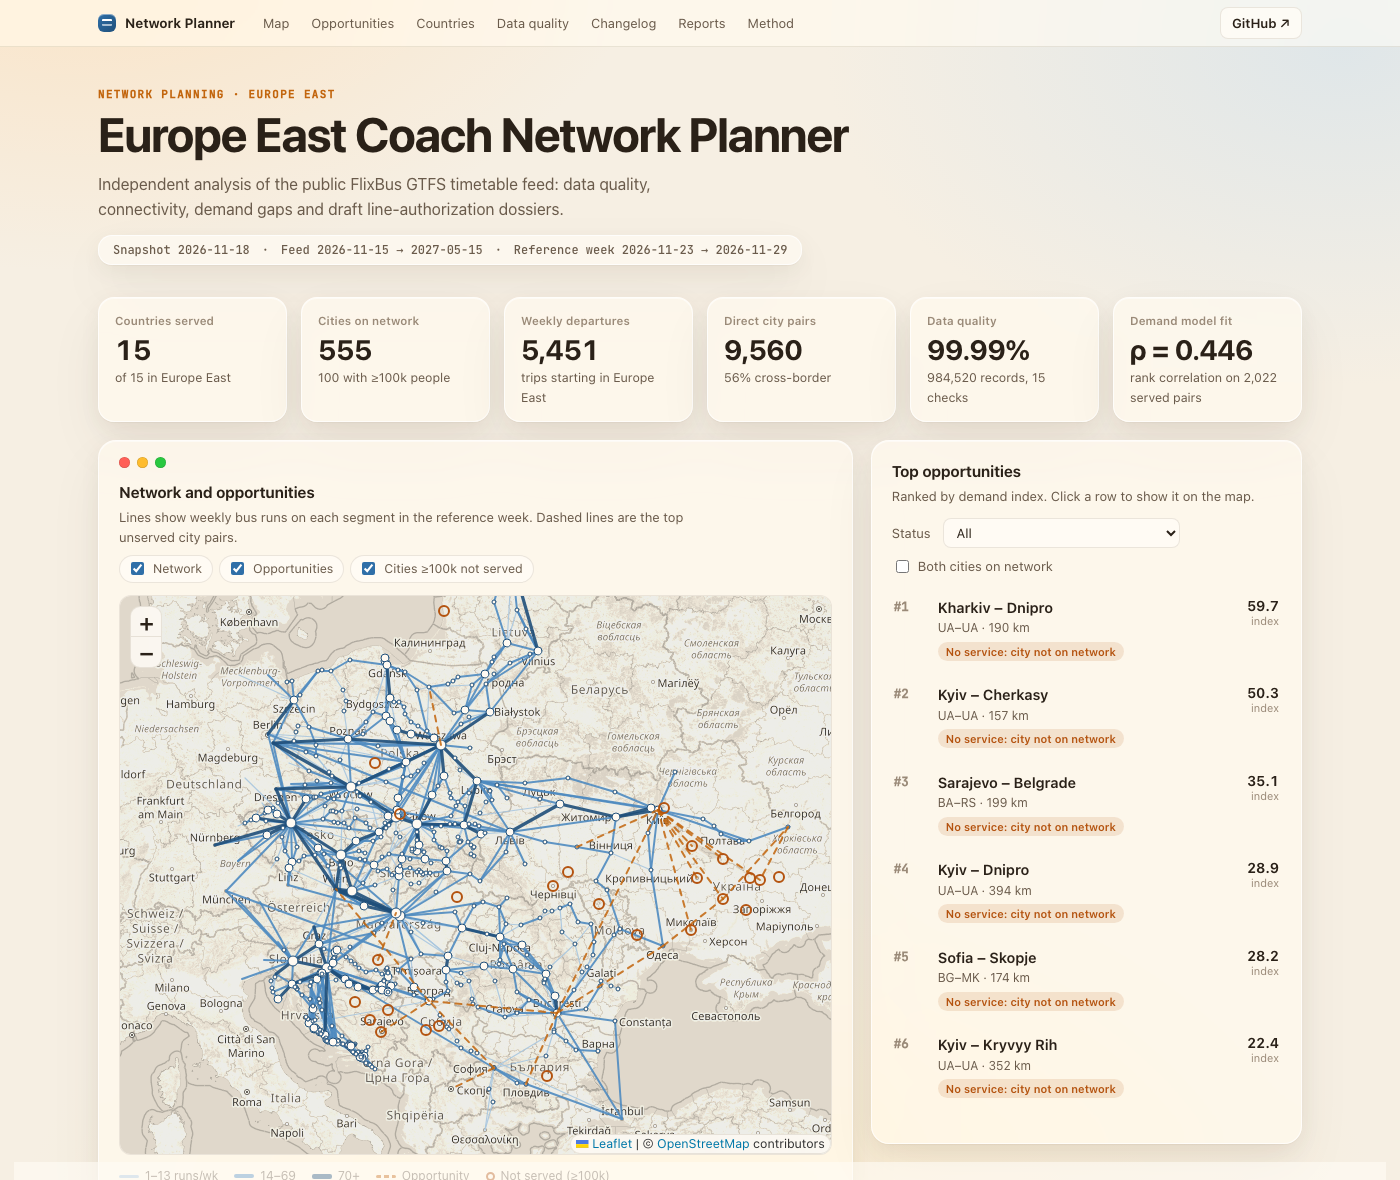
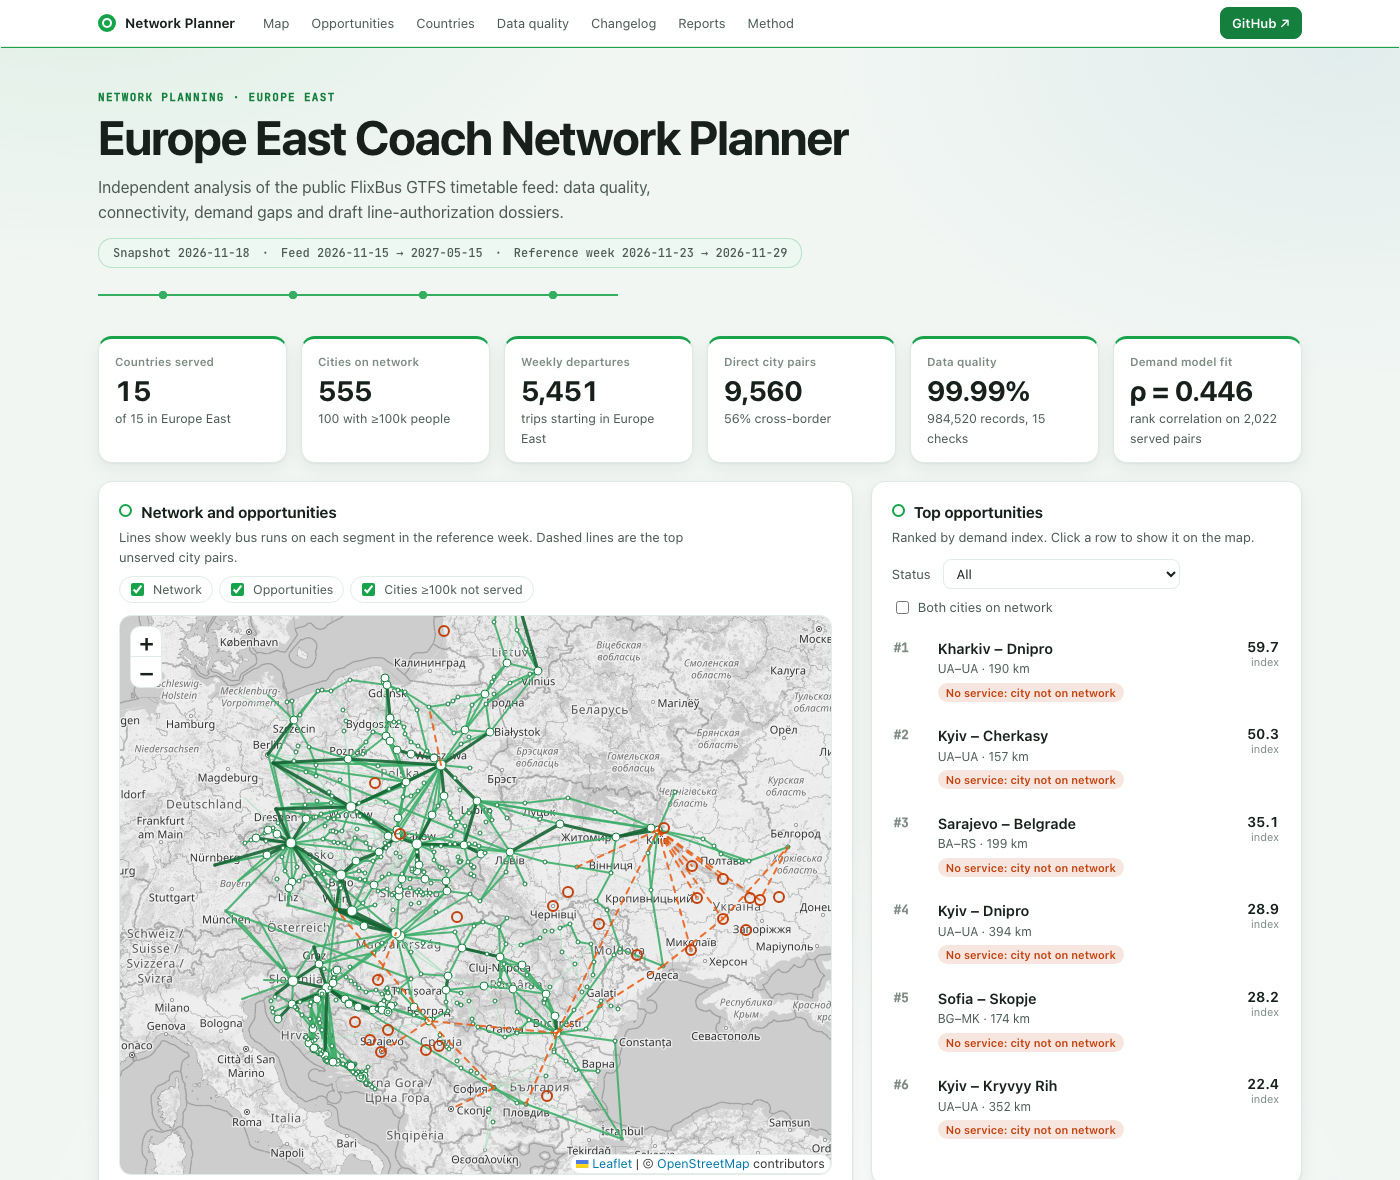
Apply green mobility theme: white cards, mint field, green route-line accents

Changed region(s): [[0.0, 0.0, 0.9521, 1.0], [0.8907, 0.4881, 0.9214, 0.7017], [0.86, 0.0, 0.9521, 0.061]]

diff --git a/site/theme-green.css b/site/theme-green.css
@@ -1,0 +1,78 @@
+/* Green mobility theme. Layered on style.css: redefines the tokens and swaps glass panels for crisp
+   white cards on a pale mint field. Fresh green (#16a34a family) is the accent; type is deep charcoal.
+   A thin "route line" motif (dashed green stroke with stop dots) marks the hero and card headers. */
+:root {
+  --bg: #f1f6f3;
+  --bloom-1: rgba(22, 163, 74, .10); --bloom-2: rgba(255, 255, 255, .9); --bloom-3: rgba(14, 116, 144, .07);
+  --glass: #ffffff; --glass-strong: #ffffff;
+  --edge: #dfe9e3; --hair: #e3ece6;
+  --shadow: 0 1px 2px rgba(16, 40, 28, .05), 0 6px 18px rgba(16, 40, 28, .06);
+  --surface: #ffffff; --ink: #17201b; --ink-2: #4b5a52; --muted: #7d8b83; --line: #e8efea;
+  --brand: #15803d; --brand-2: #16a34a; --accent: #ea580c;
+  --l1: #b7e1c6; --l2: #3fae6a; --l3: #166534; --uns: #c2410c;
+  --good: #15803d; --warn: #b45309; --bad: #b91c1c;
+  --map-filter: grayscale(1) brightness(1.06) contrast(.88);
+}
+@media (prefers-color-scheme: dark) { :root:not([data-theme="light"]) {
+  --bg: #0f1512;
+  --bloom-1: rgba(34, 197, 94, .10); --bloom-2: rgba(15, 21, 18, 1); --bloom-3: rgba(14, 116, 144, .08);
+  --glass: #161e1a; --glass-strong: #1b241f;
+  --edge: #24302a; --hair: #26322c;
+  --shadow: 0 1px 2px rgba(0, 0, 0, .3), 0 8px 22px rgba(0, 0, 0, .3);
+  --surface: #161e1a; --ink: #e9f1ec; --ink-2: #b4c2ba; --muted: #84948b; --line: #222c27;
+  --brand: #4ade80; --brand-2: #86efac; --accent: #fb923c;
+  --l1: #2f5b40; --l2: #4fbf7a; --l3: #a7f0c2; --uns: #fdba74;
+  --good: #4ade80; --warn: #fbbf24; --bad: #f87171;
+  --map-filter: grayscale(1) invert(1) brightness(.72) contrast(.92);
+  color-scheme: dark; } }
+:root[data-theme="dark"] {
+  --bg: #0f1512;
+  --bloom-1: rgba(34, 197, 94, .10); --bloom-2: rgba(15, 21, 18, 1); --bloom-3: rgba(14, 116, 144, .08);
+  --glass: #161e1a; --glass-strong: #1b241f;
+  --edge: #24302a; --hair: #26322c;
+  --shadow: 0 1px 2px rgba(0, 0, 0, .3), 0 8px 22px rgba(0, 0, 0, .3);
+  --surface: #161e1a; --ink: #e9f1ec; --ink-2: #b4c2ba; --muted: #84948b; --line: #222c27;
+  --brand: #4ade80; --brand-2: #86efac; --accent: #fb923c;
+  --l1: #2f5b40; --l2: #4fbf7a; --l3: #a7f0c2; --uns: #fdba74;
+  --good: #4ade80; --warn: #fbbf24; --bad: #f87171;
+  --map-filter: grayscale(1) invert(1) brightness(.72) contrast(.92);
+  color-scheme: dark; }
+
+/* crisp cards instead of frosted glass */
+.card, .kpi { -webkit-backdrop-filter: none; backdrop-filter: none; box-shadow: var(--shadow); border-radius: 14px; }
+.lights { display: none; }
+
+/* menu bar: solid, with a green route stripe */
+.menubar { background: var(--surface); -webkit-backdrop-filter: none; backdrop-filter: none;
+  border-bottom: 0; box-shadow: 0 1px 0 var(--hair), 0 3px 0 -1px var(--brand-2); }
+.mark { background: var(--brand-2); border-radius: 50%; box-shadow: none; }
+.mark::after { inset: 4px; border: 2px solid #fff; border-radius: 50%; }
+.links a:hover { background: color-mix(in srgb, var(--brand-2) 10%, transparent); color: var(--brand); }
+.gh { background: var(--brand); color: #fff; border-color: var(--brand); }
+:root:not([data-theme="light"]) .gh { color: #fff; }
+
+/* hero with a route-line motif */
+.hero { position: relative; padding-block: 44px 18px; }
+.hero::after { content: ""; display: block; height: 10px; margin-top: 22px; max-width: 520px;
+  background:
+    radial-gradient(circle, var(--brand-2) 4px, transparent 4.5px) 0 50% / 130px 10px repeat-x,
+    linear-gradient(90deg, var(--brand-2) 0 100%) 0 50% / 100% 2px no-repeat; opacity: .85; }
+.eyebrow { color: var(--brand); }
+.snap { background: color-mix(in srgb, var(--brand-2) 8%, var(--surface)); border-color: color-mix(in srgb, var(--brand-2) 25%, transparent);
+  box-shadow: none; -webkit-backdrop-filter: none; backdrop-filter: none; }
+
+/* KPI tiles: green top rule */
+.kpi { border-top: 3px solid var(--brand-2); }
+.kpi .v { color: var(--ink); }
+
+/* card headers carry a small stop marker */
+.card-head h2::before { content: ""; display: inline-block; width: 9px; height: 9px; border-radius: 50%;
+  border: 2.5px solid var(--brand-2); margin-right: 9px; vertical-align: 1px; }
+
+.toggles label, .chg div, .dl { background: var(--surface); }
+.opp.on { background: color-mix(in srgb, var(--brand-2) 8%, var(--surface)); box-shadow: inset 3px 0 0 var(--brand-2); }
+.dl .ext { background: var(--brand); }
+.bar { background: linear-gradient(90deg, var(--l1), var(--brand-2)); }
+th { background: var(--surface); -webkit-backdrop-filter: none; backdrop-filter: none; }
+.leaflet-bar, .leaflet-control-attribution { background: var(--surface) !important; -webkit-backdrop-filter: none; backdrop-filter: none; }
+.leaflet-popup-content-wrapper, .leaflet-tooltip { background: var(--surface); -webkit-backdrop-filter: none; backdrop-filter: none; }

diff --git a/site/index.html b/site/index.html
@@ -9,6 +9,7 @@
 <link rel="stylesheet" href="https://fonts.googleapis.com/css2?family=Inter:wght@400;500;600;700&family=JetBrains+Mono:wght@400;500&display=swap">
 <link rel="stylesheet" href="https://unpkg.com/leaflet@1.9.4/dist/leaflet.css" crossorigin="">
 <link rel="stylesheet" href="style.css">
+<link rel="stylesheet" href="theme-green.css">
 </head>
 <body>
 <nav class="menubar" aria-label="Sections">
